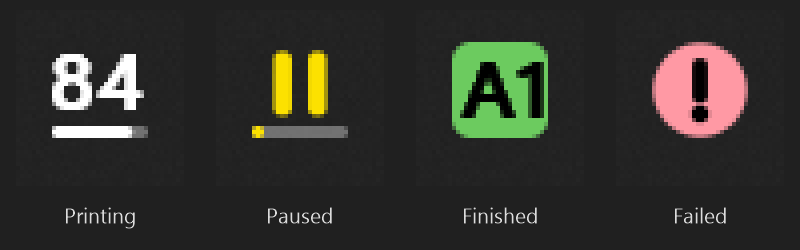
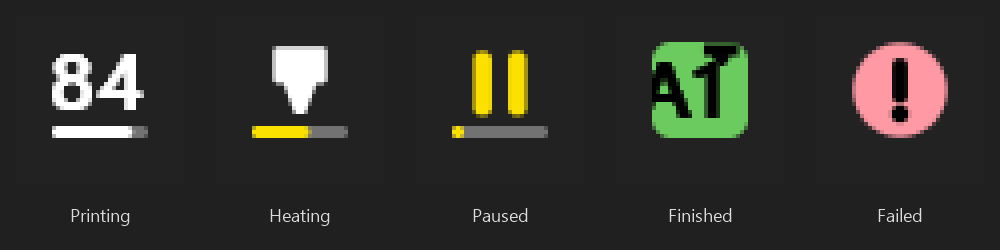
Document heating, motion and the fake printers
Covers the hotend glyph, the preview and heater bars, the reduced-motion
behavior, and the session-aware animation in the README and the project
notes.

diff --git a/README.md b/README.md
@@ -1,10 +1,10 @@
 # Traycer
 
-![Tray icon states: a percentage over a progress bar, yellow pause bars, a green tile with a printer's name scrolling across it, a red exclamation mark](docs/tray-states.png)
+![Tray icon states: a percentage over a progress bar, a hotend over an amber bar that fills as the heaters warm up, yellow pause bars, a green tile with a printer's name coming out from under a print head, a red exclamation mark](docs/tray-states.png)
 
 Glance at the tray to see how your 3D prints are going, and whether anything has finished.
 
-Traycer is a WinUI 3 app that lives in the Windows notification area. It watches the printers on your network and draws the state of the most pressing one right on its tray icon: the percentage of the print that will finish first, pause bars when a print is waiting, a green tile with the printer's name scrolling across it when a print is done and waiting for you, and a red mark when something failed. Click the icon for a card per printer.
+Traycer is a WinUI 3 app that lives in the Windows notification area. It watches the printers on your network and draws the state of the most pressing one right on its tray icon: the percentage of the print that will finish first, a hotend while the heaters warm up for one, pause bars when a print is waiting, a green tile with the printer's name scrolling across it when a print is done and waiting for you, and a red mark when something failed. Click the icon for a card per printer.
 
 ## Supported printers
 
@@ -28,12 +28,13 @@ Traycer talks to each printer the way its own software does, on your local netwo
 
 ## Features
 
-- **Tray icon:** one icon for all your printers, most urgent first: a failed print or printer error (red !), a printer waiting on you (amber !), a finished print you haven't marked complete (a green tile with `Voron done` scrolling across it, naming every printer that's done), a paused print (pause bars over its progress), then the percentage of the print that will finish soonest. With nothing going on, it's the plain app icon. It follows the taskbar's light or dark theme and renders at your display's DPI.
+- **Tray icon:** one icon for all your printers, most urgent first: a failed print or printer error (red !), a printer waiting on you (amber !), a finished print you haven't marked complete (a green tile with `Voron done` scrolling across it, naming every printer that's done), a paused print (pause bars over its progress), then the percentage of the print that will finish soonest. Before any print is under way, a hotend over an amber bar shows the heaters warming up, the bar filling as they near their targets. With nothing going on, it's the plain app icon. It follows the taskbar's light or dark theme and renders at your display's DPI.
+- **A little motion:** at 125% display scale and up, the finished tile's text comes out from under a print head, like a belt printer laying it down. When you mark the last finished print complete, the tile slides out of the icon like a plate pulled from the printer.
 - **Tooltip:** a line per printer that has news, like `P1S: Finished` or `Voron: 45% · 1h 20m left`.
-- **Cards:** the flyout has a card per printer: name, state, job name, progress bar, time left and the clock time it should be done, layer, temperatures, the printer's own status message, and a preview image when the printer serves one.
-- **Details:** click a card for everything the printer reports, grouped into temperatures (with targets), details (speed, filament, nozzle and so on) and the printer itself. Open its web interface (Mainsail, Fluidd, OctoPrint, PrusaLink, Duet Web Control), edit it or remove it.
+- **Cards:** the flyout has a card per printer: name, state, job name, progress bar, time left and the clock time it should be done, layer, temperatures, the printer's own status message, and a preview image when the printer serves one. The preview builds up from the bottom as the print goes (by layer, when the printer reports layers), with the rest of the part ghosted above a line at the layer being printed. While it prints, a glowing nozzle rides the end of the progress bar.
+- **Details:** click a card for everything the printer reports, grouped into temperatures (with targets, and an amber bar under each heater while it warms up), details (speed, filament, nozzle and so on) and the printer itself. Open its web interface (Mainsail, Fluidd, OctoPrint, PrusaLink, Duet Web Control), edit it or remove it.
 - **Notifications:** a Windows notification when a print finishes, fails, pauses or needs you. One per printer, replaced rather than piled up, and cleared when you open the flyout. Each kind can be turned off in Settings.
-- **Mark as complete:** a finished print keeps the tray icon green until you press **Mark as complete** on its card (or on its details page), so a print never sits forgotten on the plate. Starting the next print on that printer clears it too. It survives restarting the app and editing the printer.
+- **Mark as complete:** a finished print keeps the tray icon green until you press **Mark as complete** on its card (or on its details page), so a print never sits forgotten on the plate. Pressing it scrapes the card clean and slides the part off the preview, leaving an empty plate. Starting the next print on that printer clears it too. It survives restarting the app and editing the printer.
 - **Seen it:** opening the flyout counts as seeing failures and warnings, so the tray icon goes back to showing progress.
 - **Find printers:** scans your network. Bambu Lab, Elegoo and FlashForge printers announce themselves; OctoPrint, Moonraker (with zeroconf) and UltiMaker printers are found over mDNS. Pick one and the form is filled in.
 - **Add by address:** type an IP address or host name and press **Detect**: Traycer works out what's there and fills in the type, and the serial number for Bambu Lab and FlashForge. The form asks only for what that type needs, and **Test connection** says what the printer reports before you save.
@@ -66,7 +67,7 @@ Windows puts a new app's tray icon in the overflow (^). Since the icon is the po
 - **Certificates.** Printers that use TLS present certificates Windows can't verify (Bambu Lab's come from Bambu's own authority). Traycer accepts them for Bambu's MQTT connection, and for HTTPS only when the address is a private IP or a `.local`/`.lan` name.
 - **Polling.** The tray icon is the reason Traycer keeps watching with no window open. A printing printer is checked every 15 seconds (configurable), an idle one once a minute, and an unreachable one backs off to every five minutes. Bambu, Creality and Elegoo printers keep a connection open while they print and drop it while idle, checking back every three minutes.
 - **Memory.** The flyout is hidden when dismissed and closed a minute later, then the app returns its memory to Windows.
-- **Animation.** The scrolling tray icon redraws about 18 times a second, and only while a finished print waits to be marked complete. Each frame is cut from text rendered once, so it costs well under 1% of one CPU core.
+- **Animation.** The scrolling tray icon redraws about 18 times a second, only while a finished print waits to be marked complete, and holds still while your session is locked or the screen is off. Each frame is cut from text rendered once, so it costs well under 1% of one CPU core. Everything else that moves either lasts a fraction of a second or runs only while the flyout is open. With Windows' animation effects off (Settings > Accessibility > Visual effects), the tray shows a plain check mark instead of the scrolling tile, and nothing in the flyout moves.
 
 ## Build from source
 
@@ -82,13 +83,13 @@ The app has no keys of its own, so there's nothing to configure. Package identit
 
 ### No printer? Fake ones
 
-`scripts/FakePrinters.cs` runs six fake printers on `127.0.0.1`, each mid-print: Bambu Lab (MQTT over TLS, with announcements on the network), Klipper, OctoPrint, Creality, Elegoo (WebSocket and UDP discovery) and FlashForge (HTTP and UDP discovery).
+`scripts/FakePrinters.cs` runs six fake printers on `127.0.0.1`, each partway through a scripted print (40 seconds of warming up, then a few minutes of printing): Bambu Lab (MQTT over TLS, with announcements on the network), Klipper, OctoPrint, Creality, Elegoo (WebSocket and UDP discovery) and FlashForge (HTTP and UDP discovery).
 
 ```powershell
 dotnet run --file scripts/FakePrinters.cs
 ```
 
-The addresses, serial numbers and codes are at the top of the file. Steer the scripted prints at `http://localhost:7999`: `/status`, `/reset?p=all`, `/pause?p=bambu`, `/finish?p=octoprint`, `/error?p=klipper`, `/idle?p=creality`.
+The addresses, serial numbers and codes are at the top of the file. Steer the scripted prints at `http://localhost:7999`: `/status`, `/reset?p=all`, `/pause?p=bambu`, `/finish?p=octoprint`, `/error?p=klipper`, `/cancel?p=elegoo`, `/idle?p=creality`.
 
 ### Releases
 

diff --git a/CLAUDE.md b/CLAUDE.md
@@ -16,7 +16,8 @@ This is a tray-only WinUI 3 app built from the `winui-tray-app` skill scaffold o
 - **Background polling is the point.** The tray icon shows print progress, so `Services/PrinterHub` runs one `PrinterMonitor` per printer for the app's whole life (the documented exception to "no work while hidden"). Cadence lives in `TrayCer.Core/Monitoring/PollPolicy.cs`: active interval while printing or while the flyout is open, a minute when idle, three minutes for idle push printers (their connection is dropped), backoff to five minutes when unreachable. Don't add work outside it.
 - **Protocols live in `TrayCer.Core/Drivers`**, one folder per protocol: a `*Driver` (transport) and a `*Parser` (JSON or text to `PrinterSnapshot`, unit tested against `TrayCer.Tests/Samples`). Every snapshot field except `State` is optional; the cards and the detail page show only what's set. A new protocol needs a `PrinterKind` value (append, never renumber), a `PrinterKindInfo` entry (what the add form asks for), a factory case, and a `PrinterProbe` check if it can be detected.
 - **Secrets** (API keys, access codes, passwords, check codes) go through `Services/AccessCodeVault` (PasswordVault, keyed by printer id). `SettingsService.Printers` holds only non-secret config. `Services/CredentialStore.cs`, `Services/Secrets.cs` and `OAuth.resw` are unused scaffold leftovers; the app has no keys of its own.
-- **Tray icon**: `TrayCer.Core/Presentation/TrayIndicator` decides what to show for the fleet, `TrayCer.Core/Icons/TrayIconPainter` draws it, `Services/TrayIconRenderer` owns the HICON. The renderer also owns the finished marquee's frame timer, which runs only while `TrayGlyph.Done` is showing.
+- **Tray icon**: `TrayCer.Core/Presentation/TrayIndicator` decides what to show for the fleet, `TrayCer.Core/Icons/TrayIconPainter` draws it, `Services/TrayIconRenderer` owns the HICON. The renderer also owns the frame timer, which runs only while `TrayGlyph.Done`'s marquee scrolls or its tile slides out after the last print is marked complete (`TrayIndicator.HasFinished` turning false), and stops while `Services/SessionWatcher` reports the session locked or the display off.
+- **Motion follows Windows' animation effects** (`Services/MotionService.AnimationsEnabled`): check it before starting any animation, in the tray or the flyout, and show the end state when it's off. Flyout motion (`Views/BuildPreview`, the glow in `Views/PrintProgressBar`, `Views/PlateWipe`) is Composition or storyboards that run only while shown; anything that loops stops in `OnHidden`. What the preview and heater bars show is decided in `TrayCer.Core/Presentation/BuildProgress`.
 - **Finished prints wait to be marked complete.** `PrinterStatus.NeedsMarkComplete` is separate from `Attention`: opening the flyout acknowledges warnings and errors but not a finish. Only the card's or detail page's **Mark as complete** (`PrinterHub.MarkComplete`) or the next print starting (`TransitionPolicy.NeedsMarkCompleteAfter`) clears it. `PrinterHub` saves the set in `SettingsService.NeedsMarkComplete`, so it survives restarts and printer edits.
 - **No printer handy?** `dotnet run --file scripts/FakePrinters.cs` starts fake Bambu, Klipper, OctoPrint, Creality, Elegoo and FlashForge printers on 127.0.0.1 (addresses and codes in the file's header). Use `--file`: plain `dotnet run` from the root runs the app instead.
 - Tests: `dotnet test TrayCer.Tests` (Core only; verify XAML with `winapp ui` against the running app, with the fake printers).
